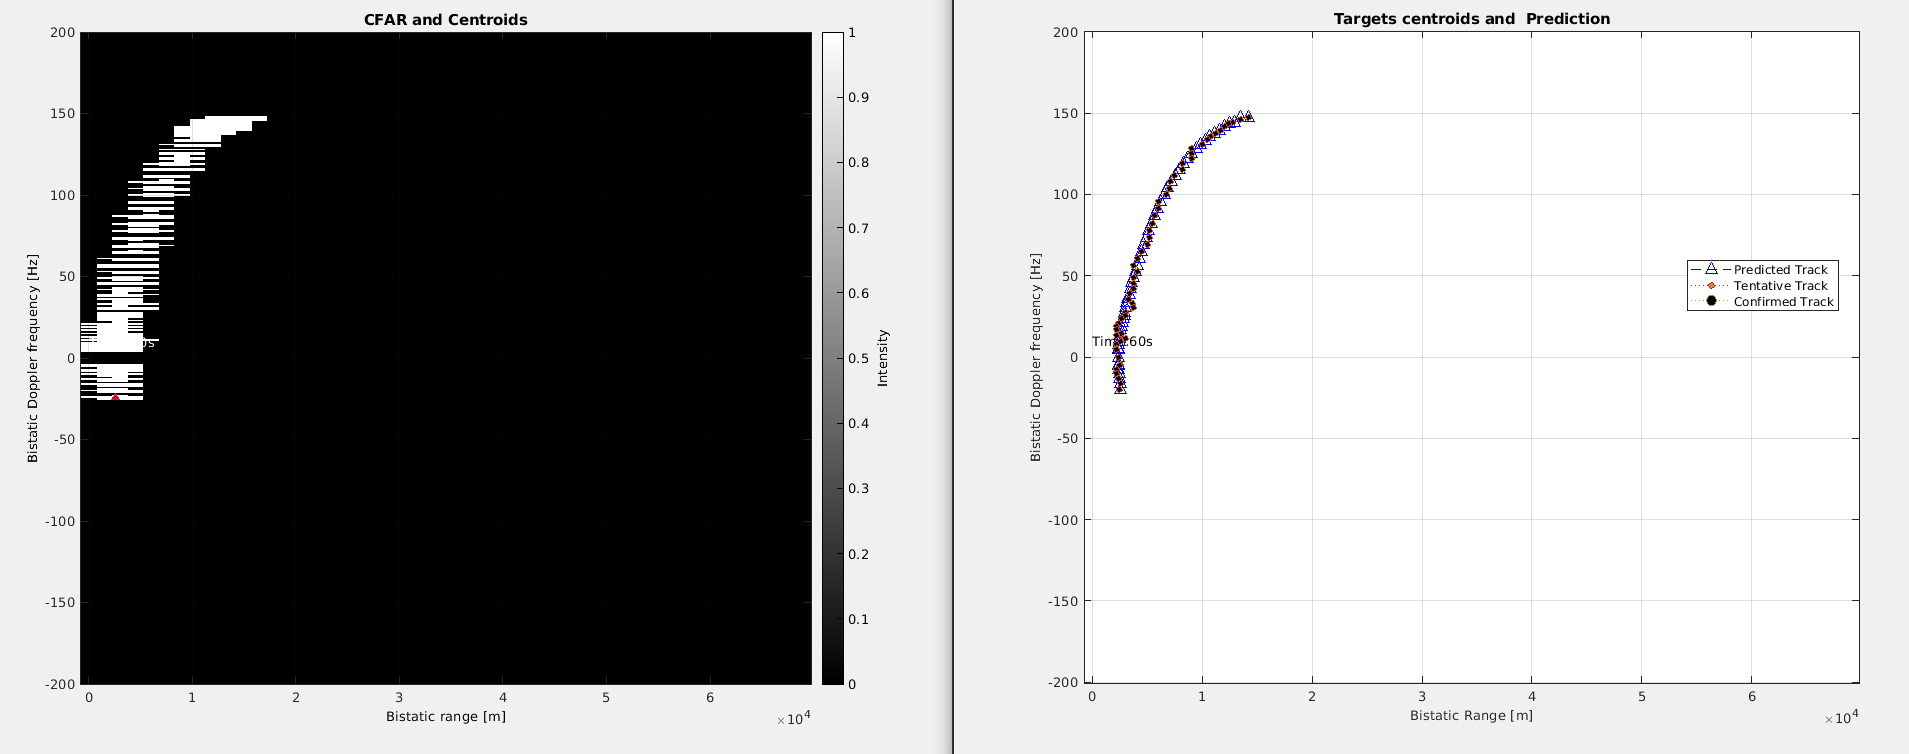
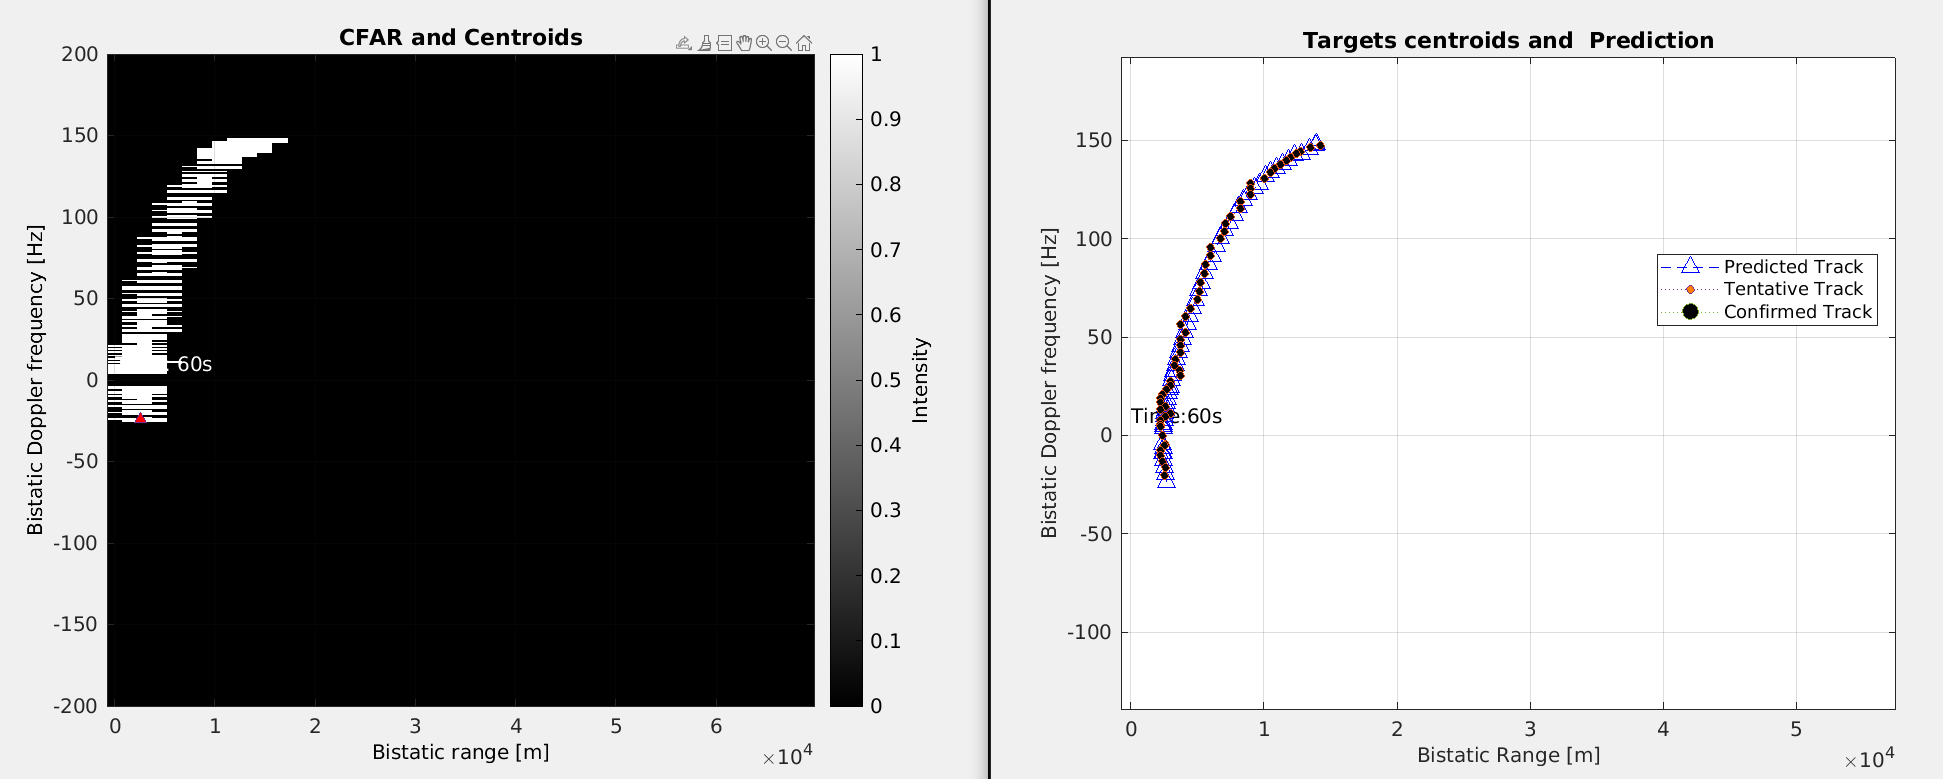
PF with NCA model

diff --git a/TrackingFilter-ParticleFilter/particleFilter.m b/TrackingFilter-ParticleFilter/particleFilter.m
@@ -30,11 +30,13 @@ classdef particleFilter
             %wave number c/f
             obj.k_d = -299792458/94e6; 
 
-            obj.A = [1, obj.k_d*dt;
-                     0, 1];
+            obj.A = [1,obj.k_d*dt,obj.k_d*(1/2)*dt^2;
+                     0, 1, dt;
+                     0, 0, 1;];
 
-            obj.Q = [(dt^4)/4,(dt^3)/2;
-                    (dt^3)/2,dt^2]*std_acc;
+            obj.Q = [(dt^4)/4, (dt^3)/2, (dt^2)/2;
+                     (dt^3)/2, dt^2, dt;
+                     (dt^2)/2, dt , 1]*std_acc;
             
 
             obj.S = [0,0;
@@ -45,14 +47,14 @@ classdef particleFilter
         function [X_pred, PF_obj] = predict(obj)
 
             % Generate random Gaussian noise with zero mean and covariance matrix Q
-            noise = zeros(obj.N, size(obj.Q, 1));
+            %noise = zeros(obj.N, size(obj.Q, 1));
         
             % Generate random Gaussian noise with zero mean and covariance matrix Q
-            noise(:,1) = obj.Q(1,1) * randn(1, obj.N);
-            noise(:,2) = obj.Q(2,2) * randn(1, obj.N);
+            noise = mvnrnd([0, 0, 0], obj.Q, obj.N);
+
 
             % Add process noise to particle states
-            obj.particles(:, 1:2) = (obj.A(1:2, 1:2) * obj.particles(:, 1:2)' + noise(:, 1:2)')';
+            obj.particles(:, 1:3) = (obj.A(1:3, 1:3) * obj.particles(:, 1:3)' + noise(:, 1:3)')';
         
             % Update the covariance matrix of the particles based on the noise added
             
@@ -92,14 +94,14 @@ classdef particleFilter
             [meanValue,varValue] = obj.estimate(obj.particles, obj.weights);
             X_est = meanValue;
             
-            obj.S(1,1)=varValue(1);
-            obj.S(2,2)=varValue(2);
+            %obj.S(1,1)=varValue(1);
+            %obj.S(2,2)=varValue(2);
             
             % Initialize the cross-covariance matrix (K) as a zero matrix
         
             % Calculate the cross-covariance elements (K_ij) using the weighted particles
             % S = HPH' + R;
-            %obj.S= sum(obj.weights .* (obj.particles(:, 1:2) - meanValue) .* (z - meanValue')', 3) + obj.std_meas;
+            obj.S= sum(obj.weights .* (obj.particles(:, 1:2) - meanValue) .* (z - meanValue')', 3) + obj.std_meas;
             PF_obj = obj;
         end
     end
@@ -125,7 +127,7 @@ classdef particleFilter
         function [particles] = createGaussianParticles(mean,std,N)
             %Create a Gaussian Distribution of particles over a region
             % N : number of particles
-                particles = zeros(N,2);
+                particles = zeros(N,3);
                 particles(:,1) = mean(1) + (randn(N,1))*std(1) ; 
                 particles(:,2) = mean(2) + (randn(N,1))*std(2) ;
                     
@@ -136,12 +138,14 @@ classdef particleFilter
             %   Detailed explanation goes here
                 particles(:,1) = particles(indexes,1);
                 particles(:,2) = particles(indexes,2);
+                particles(:,3) = particles(indexes,3);
                 
                 N = size(particles,1);
                 weights = zeros(N,1);
                 weights(:) = 1.0/size(weights,1);
         end
-            
+        
+
         function [mean, var] = estimate(particles, weights)
             %ESTIMATE Summary of this function goes here
             %   Detailed explanation goes here
